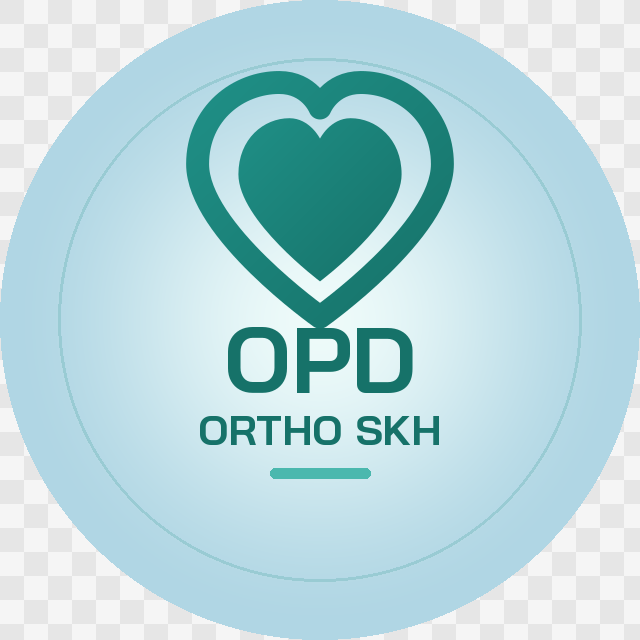
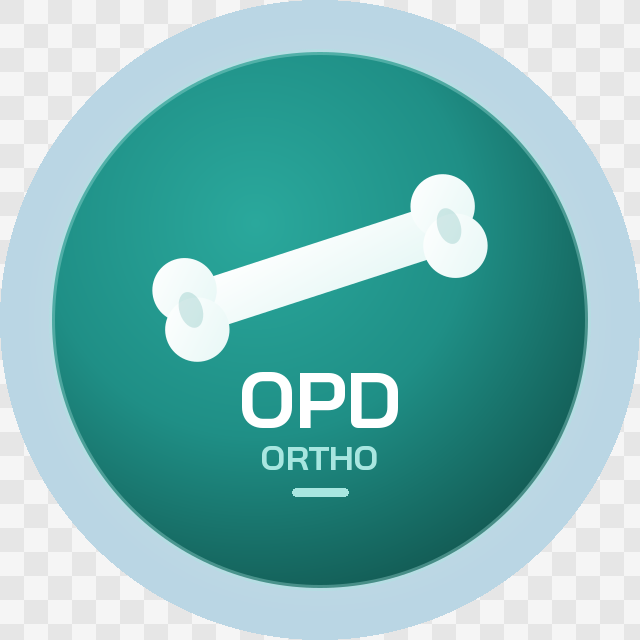
Restyle LINE OA profile as orthopedic teal bone badge
Replace the heart mark with a bold long-bone icon on a solid teal disc so
the avatar reads as OPD Ortho at chat-list size and stays circular-crop safe.

diff --git a/line/profile/generate-image.py b/line/profile/generate-image.py
@@ -1,15 +1,12 @@
 #!/usr/bin/env python3
 """Compose the OPD Ortho SKH LINE Official Account profile picture.
 
-LINE OA profile photo spec (LINE for Business media guide):
-  - Size: 640 × 640 px (recommended)
-  - Format: JPG / JPEG / PNG
-  - Max file size: 3 MB
-  - Display: cropped to a circle in chat — keep mark + type in the center safe zone
+LINE OA profile photo spec:
+  - 640 × 640 px, JPG/PNG, ≤ 3 MB
+  - Displayed as a circle — keep mark + type in the center safe zone
 
-Outputs:
-  - profile.png / profile.jpg  — square upload assets
-  - profile-circle-preview.png — circular crop preview (not for upload)
+Design goals: distinctive orthopedic brand, stylish, easy to spot in a
+chat list at ~40 px. Solid teal badge + bold bone mark (not a heart).
 """
 
 from __future__ import annotations
@@ -32,9 +29,13 @@ OUT_JPG = DIR / "profile.jpg"
 OUT_PREVIEW = DIR / "profile-circle-preview.png"
 
 W = H = 640
-BRAND = (22, 114, 105)  # #167269
-ACCENT = (75, 184, 174)  # #4BB8AE
-SAFE_DIAMETER = int(W * 0.82)  # keep content inside ~82% for circular crop
+# Brand teals from the app / rich menu
+TEAL_DEEP = (19, 92, 85)       # #135c55
+TEAL = (22, 114, 105)          # #167269
+TEAL_MID = (31, 143, 134)      # #1f8f86
+MINT = (168, 230, 224)         # #a8e6e0
+SKY = (196, 217, 243)          # #c4d9f3
+WHITE = (255, 255, 255)
 
 
 def load_font(size: int) -> ImageFont.FreeTypeFont:
@@ -44,8 +45,8 @@ def load_font(size: int) -> ImageFont.FreeTypeFont:
     return ImageFont.load_default()
 
 
-def gradient_bg() -> Image.Image:
-    """Soft mint center → cool sky edge (radial)."""
+def soft_square_bg() -> Image.Image:
+    """Mint→sky radial square so corners match the brand when not cropped."""
     im = Image.new("RGB", (W, H))
     px = im.load()
     cx = cy = (W - 1) / 2
@@ -55,50 +56,55 @@ def gradient_bg() -> Image.Image:
         for x in range(W):
             dx = (x - cx) / cx
             t = min(1.0, (dx * dx + dy2) ** 0.5)
-            # ease
             t = t * t * (3 - 2 * t)
-            r = int(238 + (176 - 238) * t)
-            g = int(251 + (214 - 251) * t)
-            b = int(250 + (228 - 250) * t)
+            # center mint → edge soft sky
+            r = int(232 + (186 - 232) * t)
+            g = int(246 + (214 - 246) * t)
+            b = int(244 + (228 - 244) * t)
             px[x, y] = (r, g, b)
     return im
 
 
-def heart_overlay() -> Image.Image:
-    """Same heart motif as the rich menu (outline + solid inner)."""
-    # Heart sits in upper half of the safe circle.
-    svg = f"""<?xml version="1.0" encoding="UTF-8"?>
+def badge_and_bone_svg() -> str:
+    """Solid teal disc + stylized long bone (orthopedic mark) + OPD wordmark."""
+    # Safe circle roughly 82% of canvas
+    return f"""<?xml version="1.0" encoding="UTF-8"?>
 <svg xmlns="http://www.w3.org/2000/svg" width="{W}" height="{H}" viewBox="0 0 {W} {H}">
   <defs>
-    <linearGradient id="heartFill" x1="0%" y1="0%" x2="100%" y2="100%">
-      <stop offset="0%" stop-color="#1f8f86"/>
-      <stop offset="100%" stop-color="#167269"/>
+    <radialGradient id="disc" cx="38%" cy="32%" r="72%">
+      <stop offset="0%" stop-color="#2aa89c"/>
+      <stop offset="55%" stop-color="#1f8f86"/>
+      <stop offset="100%" stop-color="#135c55"/>
+    </radialGradient>
+    <linearGradient id="bone" x1="0%" y1="0%" x2="100%" y2="100%">
+      <stop offset="0%" stop-color="#ffffff"/>
+      <stop offset="100%" stop-color="#e6f7f5"/>
     </linearGradient>
+    <filter id="soft" x="-30%" y="-30%" width="160%" height="160%">
+      <feDropShadow dx="0" dy="10" stdDeviation="14" flood-color="#0a3d38" flood-opacity="0.28"/>
+    </filter>
   </defs>
-  <g transform="translate(320, 210) scale(2.55)">
-    <path d="M0 42
-      C0 42 -48 8 -48 -18
-      C-48 -38 -32 -50 -16 -50
-      C-4 -50 0 -40 0 -40
-      C0 -40 4 -50 16 -50
-      C32 -50 48 -38 48 -18
-      C48 8 0 42 0 42 Z"
-      fill="none" stroke="url(#heartFill)" stroke-width="9"
-      stroke-linejoin="round" stroke-linecap="round"/>
-    <path d="M0 28
-      C0 28 -32 4 -32 -14
-      C-32 -28 -22 -36 -12 -36
-      C-4 -36 0 -28 0 -28
-      C0 -28 4 -36 12 -36
-      C22 -36 32 -28 32 -14
-      C32 4 0 28 0 28 Z"
-      fill="url(#heartFill)"/>
+
+  <!-- Solid brand disc (reads clearly when LINE crops to a circle) -->
+  <circle cx="320" cy="320" r="268" fill="url(#disc)" filter="url(#soft)"/>
+  <circle cx="320" cy="320" r="268" fill="none" stroke="#a8e6e0" stroke-opacity="0.35" stroke-width="6"/>
+
+  <!-- Orthopedic long-bone mark (horizontal, slightly tilted for style) -->
+  <g transform="translate(320, 268) rotate(-18) scale(1.15)" filter="url(#soft)">
+    <!-- Shaft -->
+    <rect x="-118" y="-22" width="236" height="44" rx="22" fill="url(#bone)"/>
+    <!-- Left epiphysis (joint knobs) -->
+    <circle cx="-118" cy="-18" r="28" fill="url(#bone)"/>
+    <circle cx="-118" cy="18" r="28" fill="url(#bone)"/>
+    <!-- Right epiphysis -->
+    <circle cx="118" cy="-18" r="28" fill="url(#bone)"/>
+    <circle cx="118" cy="18" r="28" fill="url(#bone)"/>
+    <!-- Subtle joint notch for depth -->
+    <ellipse cx="-118" cy="0" rx="10" ry="16" fill="#1f8f86" fill-opacity="0.18"/>
+    <ellipse cx="118" cy="0" rx="10" ry="16" fill="#1f8f86" fill-opacity="0.18"/>
   </g>
 </svg>
 """
-    return Image.open(
-        BytesIO(cairosvg.svg2png(bytestring=svg.encode("utf-8"), output_width=W, output_height=H))
-    ).convert("RGBA")
 
 
 def center_text(
@@ -132,25 +138,26 @@ def circle_preview(rgb: Image.Image) -> Image.Image:
 
 
 def main() -> None:
-    base = gradient_bg().convert("RGBA")
+    base = soft_square_bg().convert("RGBA")
+    mark = Image.open(
+        BytesIO(
+            cairosvg.svg2png(
+                bytestring=badge_and_bone_svg().encode("utf-8"),
+                output_width=W,
+                output_height=H,
+            )
+        )
+    ).convert("RGBA")
+    composed = Image.alpha_composite(base, mark)
+    draw = ImageDraw.Draw(composed)
 
-    # Subtle guide ring at safe-zone edge (soft, not a hard badge border)
-    ring = Image.new("RGBA", (W, H), (0, 0, 0, 0))
-    pad = (W - SAFE_DIAMETER) // 2
-    ImageDraw.Draw(ring).ellipse(
-        (pad, pad, pad + SAFE_DIAMETER - 1, pad + SAFE_DIAMETER - 1),
-        outline=(31, 143, 134, 48),
-        width=3,
-    )
-    base = Image.alpha_composite(base, ring)
-    base = Image.alpha_composite(base, heart_overlay())
+    # Wordmark inside the teal disc, below the bone — high contrast white
+    center_text(draw, "OPD", 400, load_font(78), WHITE)
+    center_text(draw, "ORTHO", 458, load_font(34), MINT)
+    # Accent dash
+    draw.rounded_rectangle((292, 488, 348, 496), radius=4, fill=MINT)
 
-    draw = ImageDraw.Draw(base)
-    center_text(draw, "OPD", 360, load_font(92), BRAND)
-    center_text(draw, "ORTHO SKH", 430, load_font(42), BRAND)
-    draw.rounded_rectangle((270, 468, 370, 478), radius=5, fill=ACCENT)
-
-    rgb = base.convert("RGB")
+    rgb = composed.convert("RGB")
     rgb.save(OUT_PNG, format="PNG", optimize=True)
     rgb.save(OUT_JPG, format="JPEG", quality=92, optimize=True, progressive=True)
     circle_preview(rgb).save(OUT_PREVIEW, format="PNG", optimize=True)
@@ -158,9 +165,8 @@ def main() -> None:
     for path in (OUT_PNG, OUT_JPG, OUT_PREVIEW):
         kb = path.stat().st_size / 1024
         print(f"Wrote {path.relative_to(ROOT)} ({W}x{H}, {kb:.1f} KB)")
-        if path.suffix.lower() in {".jpg", ".jpeg", ".png"} and path != OUT_PREVIEW:
-            if path.stat().st_size > 3 * 1024 * 1024:
-                raise SystemExit(f"{path.name} exceeds LINE 3 MB limit")
+        if path != OUT_PREVIEW and path.stat().st_size > 3 * 1024 * 1024:
+            raise SystemExit(f"{path.name} exceeds LINE 3 MB limit")
 
 
 if __name__ == "__main__":

diff --git a/line/profile/README.md b/line/profile/README.md
@@ -28,9 +28,13 @@ Source: [LINE OA media specification](https://lineforbusiness.com/th/helpcenter/
 
 ## Design
 
-Matches the rich-menu brand: mint/sky radial ground, teal **heart** mark
-(outline + solid inner), **OPD** / **ORTHO SKH** in Sarabun/Bai Jamjuree Bold,
-short accent bar. Safe for small chat avatars.
+**Orthopedic brand badge** — solid teal disc (easy to spot in a chat list),
+bold white **long-bone** mark (reads as ortho, not generic hospital), **OPD /
+ORTHO** wordmark in high-contrast type. Soft mint/sky square surround so
+uncropped corners still match the app brand.
+
+Why this shape: LINE crops to a circle; a filled teal disc + thick bone
+silhouette stays recognizable down to ~40 px.
 
 ## Regenerate
 
